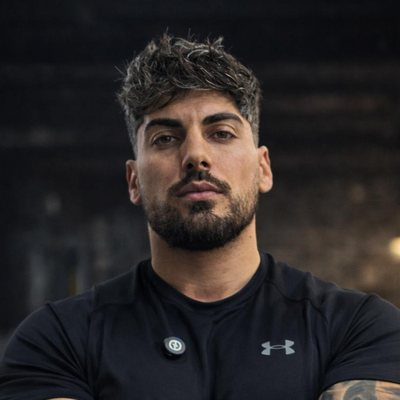
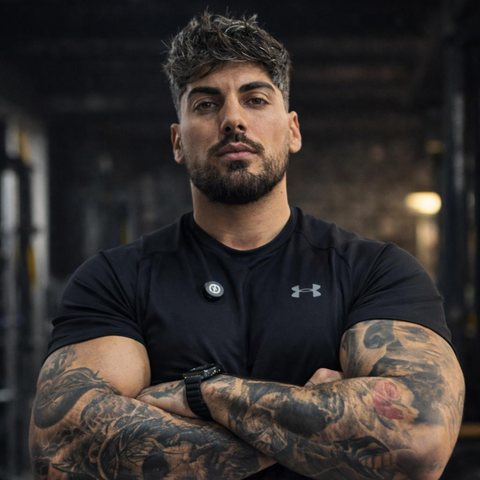
Ampliar el retrato del hero hasta los brazos cruzados
Nuevo encuadre (0, 70, 1024, 1094) sobre el original: de la cabeza a los brazos
cruzados, aprovechando todo el ancho. Exportado a 480x480 y mostrado más grande
(148 px en escritorio, 117 en móvil; antes 120 y 98).

Para que el botón de empezar siguiera a la vista, el bloque de pantallas bajas
se reajusta y su umbral sube de 740 a 800 px, que ahora cubre también los
portátiles de 13".

Medido en seis tamaños: el botón se ve igual o mejor que antes de existir la
foto, y en 1366x768, donde antes quedaba cortado por 19 px, ahora entra entero.

Claude-Session: https://claude.ai/code/session_01QSEWjGB9RDfB75jM5D6F3j

diff --git a/index.html b/index.html
@@ -802,7 +802,7 @@
     /* Retrato de Álvaro. La bienvenida la firma una persona, no un logotipo:
        justo debajo el texto habla en primera persona y ahora tiene cara. */
     .hero-foto{
-      display:block;width:clamp(92px,25vw,120px);aspect-ratio:1;
+      display:block;width:clamp(116px,30vw,148px);aspect-ratio:1;
       margin:16px 0 11px;border-radius:50%;overflow:hidden;
       border:2px solid var(--accent-45);
       box-shadow:0 0 0 7px var(--accent-08),0 20px 44px -20px rgba(0,0,0,.95);
@@ -812,12 +812,12 @@
 
     /* Pantallas bajas (móviles antiguos, portátiles de 13"): el hero se
        compacta para que el botón de empezar siga estando a la vista. */
-    @media (max-height:740px){
-      .hero{padding-top:calc(var(--header-h) + 26px);padding-bottom:28px}
+    @media (max-height:800px){
+      .hero{padding-top:calc(var(--header-h) + 18px);padding-bottom:24px}
       .logo--hero{width:min(178px,42vw)}
-      .hero-foto{width:clamp(76px,21vw,90px);margin:12px 0 4px}
-      .hero h1{margin:12px 0 16px}
-      .hero-actions{margin-top:22px}
+      .hero-foto{width:clamp(88px,24vw,108px);margin:10px 0 4px}
+      .hero h1{margin:10px 0 12px}
+      .hero-actions{margin-top:18px}
     }
 
     /* Destello metálico: recorre el logo al entrar y al pasar por encima */
@@ -1077,7 +1077,7 @@
           <span class="hero-foto">
             <picture>
               <source srcset="assets/alvaro.webp" type="image/webp" />
-              <img src="assets/alvaro.jpg" alt="Álvaro Cobos" width="400" height="400" fetchpriority="high" />
+              <img src="assets/alvaro.jpg" alt="Álvaro Cobos" width="480" height="480" fetchpriority="high" />
             </picture>
           </span>
 

diff --git a/README.md b/README.md
@@ -110,17 +110,19 @@ normal y se abre fuera; no hay que tocar nada.
 
 ## El retrato del hero
 
-`assets/alvaro.webp` / `.jpg` — 400 × 400, recortado del original de Drive
-(`alvaro.jpg`, 1024 × 1536) a un encuadre de retrato: cara centrada y algo de
-hombro. Se muestra en círculo dentro del hero, entre el logotipo y el cintillo,
-justo encima de un texto que habla en primera persona.
+`assets/alvaro.webp` / `.jpg` — 480 × 480, recortado del original de Drive
+(`alvaro.jpg`, 1024 × 1536) por la caja `(0, 70, 1024, 1094)`: de la cabeza a
+los brazos cruzados, aprovechando todo el ancho del original. Se muestra en
+círculo dentro del hero, entre el logotipo y el cintillo, justo encima de un
+texto que habla en primera persona.
 
 Al meterlo, el hero creció unos 120 px y el botón de empezar se salía de
 pantalla en móviles pequeños y en portátil. En vez de encoger la foto se
 recompactó el hero —el logotipo iba muy grande y la marca ya está en la
-cabecera fija— y se añadió un `@media (max-height:740px)` para pantallas bajas.
-Resultado: el botón se ve igual o mejor que antes de añadir la foto, en los
-cinco tamaños medidos.
+cabecera fija— y se añadió un `@media (max-height:800px)` para pantallas bajas.
+Resultado: el botón se ve igual o mejor que antes de añadir la foto en los seis
+tamaños medidos, y el portátil de 13" (1366 × 768), donde antes quedaba
+cortado, ahora lo muestra entero.
 
 ## El logo
 
